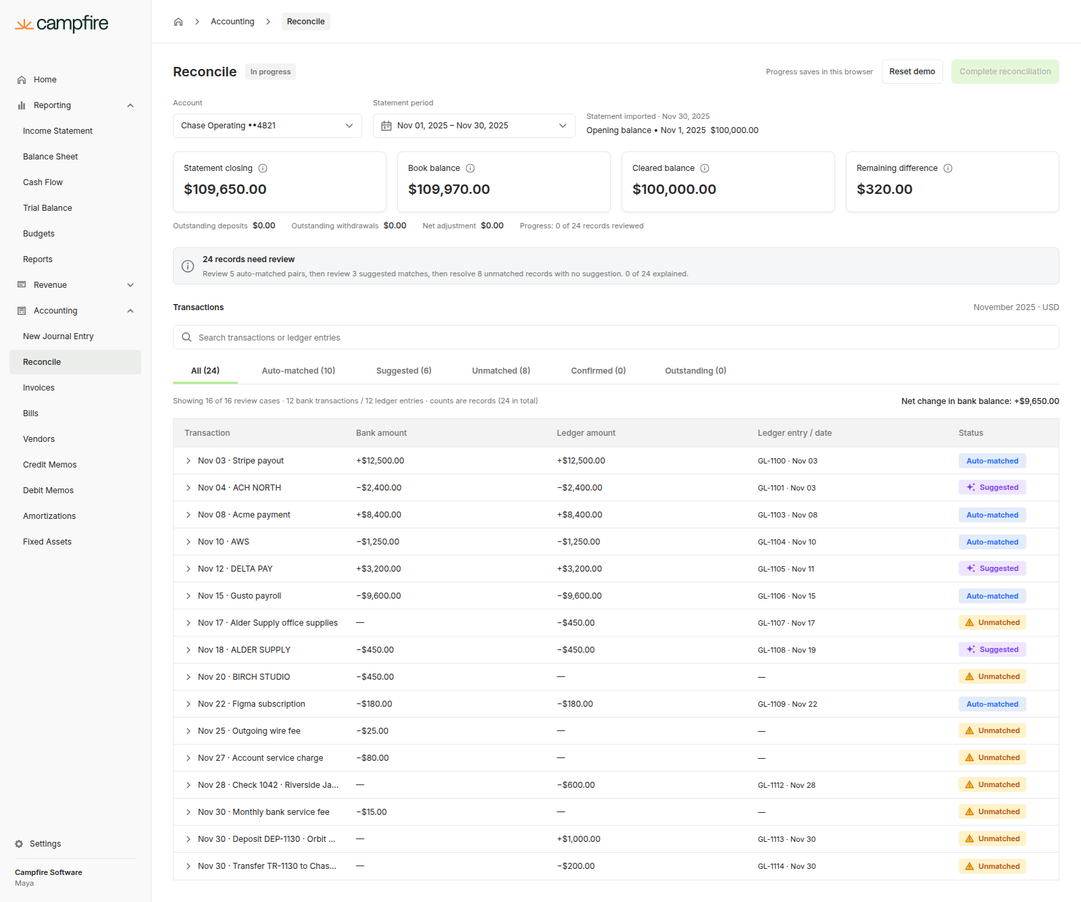
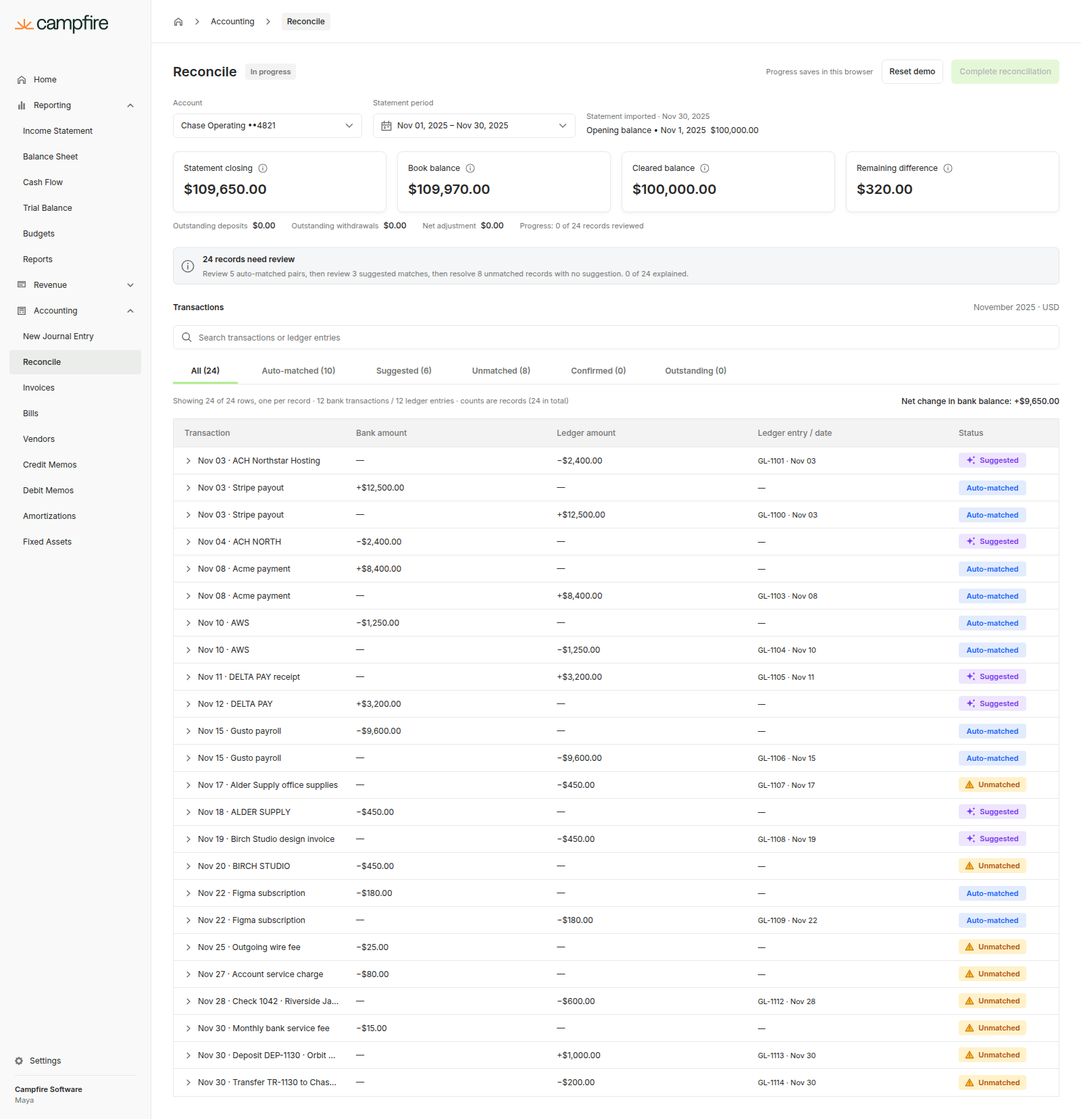
Give each bank transaction and ledger entry its own row
Suggested, auto-matched and confirmed pairs now take two rows, one per
record, that share the pair's status and open the same match details.
Created entries get their own ledger row. Counts stay per record and
balances still come from the records, so nothing is counted twice.

Claude-Session: https://claude.ai/code/session_01SjmuwsjrTUXEVeGEdoK4rk

diff --git a/prototype/src/App.test.tsx b/prototype/src/App.test.tsx
@@ -5,7 +5,8 @@ import { App } from './App'
 import { STORAGE_KEY } from './domain/persistence'
 
 const metric = (label: string) => screen.getByText(label).closest('div[class*=card], section, article')?.textContent ?? ''
-const row = (text: RegExp) => screen.getByRole('button', { name: text })
+// A pair has a bank row and a ledger row; when both match, the bank row (listed first) is meant.
+const row = (text: RegExp) => screen.getAllByRole('button', { name: text })[0]
 // The open row's detail cell (one is open at a time).
 const detail = () => {
   const cell = document.querySelector<HTMLElement>('td[id^="case-"]')
@@ -18,7 +19,7 @@ beforeEach(() => {
 })
 
 describe('Reconciliation prototype', () => {
-  it('starts with 24 records in 16 cases, the auto-matched pairs in the main table', async () => {
+  it('starts with 24 records in 24 rows, the auto-matched pairs in the main table', async () => {
     render(<App />)
     expect(screen.getByRole('heading', { name: 'Transactions' })).toBeInTheDocument()
     expect(screen.getByRole('tab', { name: 'All (24)' })).toBeInTheDocument()
@@ -26,9 +27,9 @@ describe('Reconciliation prototype', () => {
     expect(screen.getByRole('tab', { name: 'Suggested (6)' })).toBeInTheDocument()
     expect(screen.getByRole('tab', { name: 'Unmatched (8)' })).toBeInTheDocument()
     expect(screen.queryByRole('button', { name: /Already matched/ })).not.toBeInTheDocument()
-    expect(screen.getByText(/Showing 16 of 16 review cases · 12 bank transactions \/ 12 ledger entries/)).toBeInTheDocument()
+    expect(screen.getByText(/Showing 24 of 24 rows, one per record · 12 bank transactions \/ 12 ledger entries/)).toBeInTheDocument()
     await userEvent.setup().click(screen.getByRole('tab', { name: 'Auto-matched (10)' }))
-    expect(screen.getByText('5 auto-matched pairs · 10 records awaiting review')).toBeInTheDocument()
+    expect(screen.getByText('5 auto-matched pairs · 10 records awaiting review, one row each')).toBeInTheDocument()
     expect(within(row(/Nov 03 · Stripe payout/).closest('tr')!).getByText('Auto-matched')).toBeInTheDocument()
     expect(metric('Remaining difference')).toContain('$320.00')
     expect(metric('Cleared balance')).toContain('$100,000.00')
@@ -58,6 +59,35 @@ describe('Reconciliation prototype', () => {
     await user.click(screen.getByRole('tab', { name: 'Unmatched (8)' }))
     expect(pills()).toHaveLength(8)
     expect(screen.queryByRole('button', { name: /Nov 18 · ALDER SUPPLY/ })).not.toBeInTheDocument()
+  })
+
+  it('gives each bank transaction and ledger entry its own row and keeps pair statuses in sync', async () => {
+    const user = userEvent.setup()
+    render(<App />)
+    const bankRow = screen.getByRole('button', { name: 'Bank transaction, Nov 03 · Stripe payout' })
+    const ledgerRow = screen.getByRole('button', { name: 'Ledger entry, Nov 03 · Stripe payout' })
+    const cells = (b: HTMLElement) => [...b.closest('tr')!.querySelectorAll('td')].map((td) => td.textContent!.replace('—None', '—'))
+    expect(cells(bankRow).slice(0, 3)).toEqual(['+$12,500.00', '—', '—'])
+    expect(cells(ledgerRow).slice(0, 3)).toEqual(['—', '+$12,500.00', 'GL-1100 · Nov 03'])
+    const status = (b: HTMLElement) => b.closest('tr')!.querySelector('[data-status]')!.getAttribute('data-status')
+    expect([status(bankRow), status(ledgerRow)]).toEqual(['auto-matched', 'auto-matched'])
+    // Expanding the ledger row shows the match and leaves the bank row in place.
+    await user.click(ledgerRow)
+    expect(within(detail()).getByText('The amount, date, and description match. Review the details below, then confirm.')).toBeInTheDocument()
+    expect(bankRow).toBeInTheDocument()
+    await user.click(within(detail()).getByRole('button', { name: 'Confirm match' }))
+    expect([status(bankRow), status(ledgerRow)]).toEqual(['confirmed', 'confirmed'])
+    expect(screen.getByRole('tab', { name: 'Confirmed (2)' })).toBeInTheDocument()
+    // The bank amount clears once, not once per row.
+    expect(metric('Cleared balance')).toContain('$112,500.00')
+    await user.click(screen.getByRole('tab', { name: 'Confirmed (2)' }))
+    expect(screen.getAllByRole('button', { name: /Stripe payout/ })).toHaveLength(2)
+    await user.click(screen.getByRole('button', { name: 'Bank transaction, Nov 03 · Stripe payout' }))
+    await user.click(within(detail()).getByRole('button', { name: 'Undo' }))
+    expect(screen.getByRole('tab', { name: 'Confirmed (0)' })).toBeInTheDocument()
+    expect(metric('Cleared balance')).toContain('$100,000.00')
+    await user.click(screen.getByRole('tab', { name: 'Auto-matched (10)' }))
+    expect([status(screen.getByRole('button', { name: /Bank transaction, Nov 03 · Stripe/ })), status(screen.getByRole('button', { name: /Ledger entry, Nov 03 · Stripe/ }))]).toEqual(['auto-matched', 'auto-matched'])
   })
 
   it('confirms a suggestion from the keyboard and offers Undo in the expanded row', async () => {
@@ -192,7 +222,7 @@ describe('Reconciliation prototype', () => {
     const user = userEvent.setup()
     render(<App />)
     const button = row(/Nov 04 · ACH NORTH/)
-    await user.click(within(button.closest('tr')!).getByText('GL-1101 · Nov 03'))
+    await user.click(within(button.closest('tr')!).getByText(/2,400\.00/, { selector: 'td' }))
     expect(button).toHaveAttribute('aria-expanded', 'true')
     // The status pill shows its tooltip instead of toggling the row.
     await user.click(within(button.closest('tr')!).getByText('Suggested'))

diff --git a/prototype/src/domain/selectors.ts b/prototype/src/domain/selectors.ts
@@ -101,53 +101,63 @@ export function statusCounts(state: ReconState): StatusCounts {
 export type CaseStatus = RecordStatus
 
 export interface ReviewCase {
-  /** Stable key: the bank record id when the case has one, otherwise the ledger record id. */
+  /** Stable key: the id of the record this row shows. */
   key: string
   status: CaseStatus
+  /** Which record the row shows. Paired records get one row each, carrying the same pair details. */
+  side: 'bank' | 'ledger'
+  record: FinancialRecord
   bank?: BankRecord
   ledger?: LedgerEntry
   suggestion?: Suggestion
   match?: Match
   outstanding?: OutstandingDoc
-  /** Original exception records in this case (a generated entry is linked but not counted). */
+  /** Original exception records the row's action covers (both records of a pair; a generated entry is linked but not counted). */
   recordIds: string[]
   date: string
 }
 
-/** Groups the 24 records into review cases. Each record appears in exactly one case. */
+/**
+ * One row per record (Yirang, 2026-10-05): every bank transaction and ledger entry has its own row, including the
+ * entries created from a bank line. A suggested, auto-matched or confirmed pair gives two rows with the same status and
+ * pair details, so expanding either one shows the match. Rows sort by their own record's date.
+ */
 export function reviewCases(state: ReconState): ReviewCase[] {
   const cases: ReviewCase[] = []
   const used = new Set<string>()
+  const pair = (base: Omit<ReviewCase, 'key' | 'side' | 'record' | 'date'> & { bank: BankRecord; ledger: LedgerEntry }) => {
+    used.add(base.bank.id)
+    used.add(base.ledger.id)
+    cases.push({ ...base, key: base.bank.id, side: 'bank', record: base.bank, date: base.bank.date })
+    cases.push({ ...base, key: base.ledger.id, side: 'ledger', record: base.ledger, date: base.ledger.date })
+  }
 
   for (const match of state.matches) {
     const bank = bankRecord(match.bankId)!
     const ledger = ledgerRecord(state, match.ledgerId)!
-    const recordIds = [bank.id, ...(ledger.generatedFrom ? [] : [ledger.id])]
-    recordIds.forEach((id) => used.add(id))
-    cases.push({ key: bank.id, status: 'confirmed', bank, ledger, match, recordIds, date: bank.date })
+    pair({ status: 'confirmed', bank, ledger, match, recordIds: [bank.id, ...(ledger.generatedFrom ? [] : [ledger.id])] })
   }
   for (const suggestion of activeSuggestions(state)) {
     const bank = bankRecord(suggestion.bankId)!
     const ledger = ledgerRecord(state, suggestion.ledgerId)!
-    used.add(bank.id)
-    used.add(ledger.id)
-    const status = suggestion.kind === 'auto' ? 'auto-matched' : 'suggested'
-    cases.push({ key: bank.id, status, bank, ledger, suggestion, recordIds: [bank.id, ledger.id], date: bank.date })
+    pair({ status: suggestion.kind === 'auto' ? 'auto-matched' : 'suggested', bank, ledger, suggestion, recordIds: [bank.id, ledger.id] })
   }
   for (const doc of state.outstanding) {
     const ledger = ledgerRecord(state, doc.ledgerId)!
     used.add(ledger.id)
-    cases.push({ key: ledger.id, status: 'outstanding', ledger, outstanding: doc, recordIds: [ledger.id], date: ledger.date })
+    cases.push({ key: ledger.id, status: 'outstanding', side: 'ledger', record: ledger, ledger, outstanding: doc, recordIds: [ledger.id], date: ledger.date })
   }
   for (const bank of BANK_EXCEPTIONS) {
     if (used.has(bank.id)) continue
-    cases.push({ key: bank.id, status: 'unmatched', bank, recordIds: [bank.id], date: bank.date })
+    cases.push({ key: bank.id, status: 'unmatched', side: 'bank', record: bank, bank, recordIds: [bank.id], date: bank.date })
   }
   for (const ledger of LEDGER_EXCEPTIONS) {
     if (used.has(ledger.id)) continue
-    cases.push({ key: ledger.id, status: 'unmatched', ledger, recordIds: [ledger.id], date: ledger.date })
+    cases.push({ key: ledger.id, status: 'unmatched', side: 'ledger', record: ledger, ledger, recordIds: [ledger.id], date: ledger.date })
   }
-  return cases.sort((a, b) => a.date.localeCompare(b.date) || a.key.localeCompare(b.key))
+  // Same date: the two rows of a pair sit together, bank row first.
+  const group = (c: ReviewCase) => c.bank?.id ?? c.key
+  return cases.sort((a, b) => a.date.localeCompare(b.date) || group(a).localeCompare(group(b)) || a.side.localeCompare(b.side))
 }
 
 export interface Balances {

diff --git a/src/showcase/flags.ts b/src/showcase/flags.ts
@@ -22,6 +22,7 @@ export const CONFLICTS = [
   'Ledger cards without "Match status" (Yirang, 2026-10-04). The suggested, auto-matched and matched ledger cards no longer repeat the status already shown by the row pill and the notice; the slot shows the entry\'s counterparty instead, a field the ledger data already has and the ledger-only card already shows. Created entries show nothing extra, since their counterparty is their category.',
   'Cleared balance with auto-matched pairs. Only confirmed matches clear, so an unconfirmed auto-matched pair no longer counts as cleared: the cleared balance starts at the $100,000.00 opening balance instead of the PRD\'s $109,870.00 and rises as pairs are confirmed. Statement closing ($109,650.00), book balance ($109,970.00) and the $320.00 difference are unchanged, and the finish is the same ($109,650.00 cleared, $0.00 difference) with 21 Confirmed and 3 Outstanding. A save completed before this change is reopened on load, with every decision kept and the reopening recorded in history.',
   'Suggested-match ledger memos. GL-1101 reads "ACH Northstar Hosting" and GL-1105 "DELTA PAY receipt" instead of the PRD\'s "Northstar hosting" and "Delta receipt", so the two correct suggestions differ from their bank lines only by the shortened payee or one word, plus the 1-day date gap (Yirang\'s request, 2026-10-04). Amounts, dates, references and the deliberately wrong Alder/Birch suggestion are unchanged.',
+  'One row per record (Yirang, 2026-10-05). The Figma register (49:617, 28:8442) puts a matched or suggested pair on one row with both amounts and the ledger entry. The prototype gives every bank transaction and ledger entry its own row: a bank row fills only Bank amount, a ledger row fills only Ledger amount and Ledger entry / date. The two rows of a pair share the pair\'s status, change together on confirm, dismiss and Undo, and expanding either one shows the same match details; on the same date they sit together, bank row first. Entries created from a bank line get their own ledger row (tagged Created) but are not counted, so the Confirmed tab can show more rows than its record count. Each row button\'s accessible name starts with "Bank transaction" or "Ledger entry", since a bank line and its entry can share a date and description. Balances come from the records, not the rows, so nothing is counted twice.',
   'Reconcile register columns. 49:617 has five columns; 28:8442 adds an Action column with an Undo link. At Yirang\'s request (2026-10-05) the prototype follows 49:617: no Action column, and Undo sits at the right of the expanded row\'s banner ("Match confirmed", "Created … and matched it", "Documented as outstanding").',
   'Reconcile control heights. The expense form draws its dropdown and inputs at 34 px (38:7885, 38:7939, 38:8005); the controls page draws 36 px dropdowns and 38 px fields. Both are built (size="compact" on Select and TextField).',
   '"Paid from" (PRD) vs "Payment account" (Figma 38:7927) on the expense form. The PRD label is used.',

diff --git a/prototype/src/ui/ReconcilePage.tsx b/prototype/src/ui/ReconcilePage.tsx
@@ -28,13 +28,12 @@ const DEFINITIONS = {
 function caseMatchesQuery(c: ReviewCase, query: string) {
   const q = query.trim().toLowerCase()
   if (!q) return true
-  const records = [c.bank, c.ledger].filter(Boolean)
-  return records.some((r) =>
-    [r!.description, recordCounterparty(r!), r!.reference ?? '', r!.id, r!.kind === 'ledger' ? r!.entryId : '', money(r!.amount)]
-      .join(' ')
-      .toLowerCase()
-      .includes(q),
-  )
+  // A row matches on its own record only, since it shows only that record.
+  const r = c.record
+  return [r.description, recordCounterparty(r), r.reference ?? '', r.id, r.kind === 'ledger' ? r.entryId : '', money(r.amount)]
+    .join(' ')
+    .toLowerCase()
+    .includes(q)
 }
 
 export function ReconcilePage({ recon, announce }: { recon: Recon; announce: (message: string) => void }) {
@@ -114,8 +113,8 @@ export function ReconcilePage({ recon, announce }: { recon: Recon; announce: (me
   const nextStep = () => {
     if (counts.unresolved === 0 && totals.difference === 0)
       return { title: 'Ready to complete', detail: `All ${counts.all} records are explained and the remaining difference is $0.00.` }
-    const autoPairs = cases.filter((c) => c.status === 'auto-matched').length
-    const suggestedPairs = cases.filter((c) => c.status === 'suggested').length
+    const autoPairs = cases.filter((c) => c.status === 'auto-matched' && c.side === 'bank').length
+    const suggestedPairs = cases.filter((c) => c.status === 'suggested' && c.side === 'bank').length
     const noSuggestion = counts.unmatched
     const parts = [
       autoPairs ? `review ${autoPairs} auto-matched ${autoPairs === 1 ? 'pair' : 'pairs'}` : '',
@@ -295,8 +294,8 @@ export function ReconcilePage({ recon, announce }: { recon: Recon; announce: (me
           <div className={styles.registerFooter}>
             <p className="cf-text-caption cf-text-secondary">
               {tab === 'auto-matched'
-                ? `${visible.length} auto-matched ${visible.length === 1 ? 'pair' : 'pairs'} · ${counts.autoMatched} ${counts.autoMatched === 1 ? 'record' : 'records'} awaiting review`
-                : `Showing ${visible.length} of ${cases.length} review cases · ${BANK_EXCEPTIONS.length} bank transactions / ${LEDGER_EXCEPTIONS.length} ledger entries · counts are records (${counts.all} in total)`}
+                ? `${counts.autoMatched / 2} auto-matched ${counts.autoMatched === 2 ? 'pair' : 'pairs'} · ${counts.autoMatched} ${counts.autoMatched === 1 ? 'record' : 'records'} awaiting review, one row each`
+                : `Showing ${visible.length} of ${cases.length} rows, one per record · ${BANK_EXCEPTIONS.length} bank transactions / ${LEDGER_EXCEPTIONS.length} ledger entries · counts are records (${counts.all} in total)`}
               {state.generated.length > 0 && ` · ${state.generated.length} created ${state.generated.length === 1 ? 'entry' : 'entries'}`}
             </p>
             <p className={styles.movement}>

diff --git a/prototype/src/ui/Register.tsx b/prototype/src/ui/Register.tsx
@@ -30,7 +30,8 @@ export interface RegisterProps {
 
 /**
  * Reconciliation register (49:687): 42 px header on surface/subtle, 40 px rows, 16 px insets, 24 px column gaps,
- * a 230 px transaction column and equal amount, entry and status columns. Each row is one review case; the
+ * a 230 px transaction column and equal amount, entry and status columns. Each row is one bank transaction or ledger
+ * entry (Yirang, 2026-10-05), so a pair takes two rows with the same status; the
  * expanded detail opens inside the table (49:952). The Action column of 28:8442 is removed at Yirang's request
  * (2026-10-05): Undo sits at the right of the expanded row's banner instead.
  */
@@ -93,7 +94,7 @@ export function Register({ recon, cases, expanded, onToggle, onCollapse, announc
         )}
         {cases.map((c) => {
           const open = expanded === c.key
-          const primary = c.bank ?? c.ledger!
+          const primary = c.record
           const detailId = `case-${c.key}`
           return (
             <Fragment key={c.key}>
@@ -115,18 +116,19 @@ export function Register({ recon, cases, expanded, onToggle, onCollapse, announc
                   >
                     <Icon name={open ? 'chevron-down' : 'chevron-right'} size={12} />
                     <span className={styles.label}>
+                      <span className="cf-visually-hidden">{c.side === 'bank' ? 'Bank transaction,' : 'Ledger entry,'}</span>{' '}
                       {shortDate(primary.date)} · {primary.description}
                     </span>
                   </button>
                 </th>
                 <td className={styles.amountCell} data-label="Bank amount">
-                  {c.bank ? signed(c.bank.amount) : <Dash />}
+                  {c.side === 'bank' ? signed(c.record.amount) : <Dash />}
                 </td>
                 <td className={styles.amountCell} data-label="Ledger amount">
-                  {c.ledger ? signed(c.ledger.amount) : <Dash />}
+                  {c.side === 'ledger' ? signed(c.record.amount) : <Dash />}
                 </td>
                 <td className={styles.entry} data-label="Ledger entry / date">
-                  {c.ledger ? (
+                  {c.side === 'ledger' && c.ledger ? (
                     <>
                       {c.ledger.entryId} · {shortDate(c.ledger.date)}
                       {c.ledger.generatedFrom && <span className={styles.created}>Created</span>}

diff --git a/prototype/src/domain/engine.test.ts b/prototype/src/domain/engine.test.ts
@@ -58,15 +58,21 @@ const FINISH: Action[] = [
 describe('initial fixture', () => {
   const state = initialState()
 
-  it('counts 24 records in 16 review cases, the 5 auto-matched pairs included once each', () => {
+  it('counts 24 records in 24 rows, one per record, with pairs sharing a status', () => {
     expect(statusCounts(state)).toMatchObject({ all: 24, autoMatched: 10, suggested: 6, unmatched: 8, confirmed: 0, outstanding: 0, unresolved: 24, explained: 0 })
     const cases = reviewCases(state)
-    expect(cases).toHaveLength(16)
-    expect(cases.filter((c) => c.status === 'auto-matched')).toHaveLength(5)
-    expect(cases.filter((c) => c.recordIds.length === 2)).toHaveLength(8)
-    const ids = cases.flatMap((c) => c.recordIds)
-    expect(ids).toHaveLength(24)
+    expect(cases).toHaveLength(24)
+    expect(cases.filter((c) => c.status === 'auto-matched')).toHaveLength(10)
+    expect(cases.filter((c) => c.recordIds.length === 2)).toHaveLength(16)
+    expect(cases.filter((c) => c.side === 'bank')).toHaveLength(12)
+    const ids = cases.map((c) => c.record.id)
     expect(new Set(ids).size).toBe(24)
+    // Both rows of a pair show the same status and pair.
+    const stripe = cases.filter((c) => c.suggestion?.id === 'A1')
+    expect(stripe.map((c) => [c.side, c.status, c.record.amount])).toEqual([
+      ['bank', 'auto-matched', 1_250_000],
+      ['ledger', 'auto-matched', 1_250_000],
+    ])
   })
 
   it('derives the initial balances from the PRD', () => {
@@ -205,7 +211,7 @@ describe('dismissal and its undo', () => {
     let s = run(initialState(), { type: 'dismiss-suggestion', suggestionId: 'S3' })
     expect(recordStatus(s, 'B03')).toBe('unmatched')
     expect(recordStatus(s, 'L03')).toBe('unmatched')
-    expect(reviewCases(s)).toHaveLength(17)
+    expect(reviewCases(s)).toHaveLength(24)
     const restored = run(s, { type: 'restore-suggestion', suggestionId: 'S3' })
     expect(recordStatus(restored, 'B03')).toBe('suggested')
     s = run(s, { type: 'confirm-match', bankId: 'B04', ledgerId: 'L03', source: 'search' })

diff --git a/docs/design-flags.md b/docs/design-flags.md
@@ -25,6 +25,7 @@ Conflicts in the Figma references, choices Figma does not document, accessibilit
 - Ledger cards without "Match status" (Yirang, 2026-10-04). The suggested, auto-matched and matched ledger cards no longer repeat the status already shown by the row pill and the notice; the slot shows the entry's counterparty instead, a field the ledger data already has and the ledger-only card already shows. Created entries show nothing extra, since their counterparty is their category.
 - Cleared balance with auto-matched pairs. Only confirmed matches clear, so an unconfirmed auto-matched pair no longer counts as cleared: the cleared balance starts at the $100,000.00 opening balance instead of the PRD's $109,870.00 and rises as pairs are confirmed. Statement closing ($109,650.00), book balance ($109,970.00) and the $320.00 difference are unchanged, and the finish is the same ($109,650.00 cleared, $0.00 difference) with 21 Confirmed and 3 Outstanding. A save completed before this change is reopened on load, with every decision kept and the reopening recorded in history.
 - Suggested-match ledger memos. GL-1101 reads "ACH Northstar Hosting" and GL-1105 "DELTA PAY receipt" instead of the PRD's "Northstar hosting" and "Delta receipt", so the two correct suggestions differ from their bank lines only by the shortened payee or one word, plus the 1-day date gap (Yirang's request, 2026-10-04). Amounts, dates, references and the deliberately wrong Alder/Birch suggestion are unchanged.
+- One row per record (Yirang, 2026-10-05). The Figma register (49:617, 28:8442) puts a matched or suggested pair on one row with both amounts and the ledger entry. The prototype gives every bank transaction and ledger entry its own row: a bank row fills only Bank amount, a ledger row fills only Ledger amount and Ledger entry / date. The two rows of a pair share the pair's status, change together on confirm, dismiss and Undo, and expanding either one shows the same match details; on the same date they sit together, bank row first. Entries created from a bank line get their own ledger row (tagged Created) but are not counted, so the Confirmed tab can show more rows than its record count. Each row button's accessible name starts with "Bank transaction" or "Ledger entry", since a bank line and its entry can share a date and description. Balances come from the records, not the rows, so nothing is counted twice.
 - Reconcile register columns. 49:617 has five columns; 28:8442 adds an Action column with an Undo link. At Yirang's request (2026-10-05) the prototype follows 49:617: no Action column, and Undo sits at the right of the expanded row's banner ("Match confirmed", "Created … and matched it", "Documented as outstanding").
 - Reconcile control heights. The expense form draws its dropdown and inputs at 34 px (38:7885, 38:7939, 38:8005); the controls page draws 36 px dropdowns and 38 px fields. Both are built (size="compact" on Select and TextField).
 - "Paid from" (PRD) vs "Payment account" (Figma 38:7927) on the expense form. The PRD label is used.

diff --git a/prototype/README.md b/prototype/README.md
@@ -30,6 +30,7 @@ Start from a reset. The page opens with a $320.00 difference and 24 records in 1
 
 Other paths worth trying:
 
+- **One row per record.** Each bank transaction and ledger entry has its own row: *Nov 03 · Stripe payout* appears twice, once with the bank amount and once with the ledger amount and GL-1100. Both rows show the pair's status and change together, and expanding either shows the match. Created entries get their own row, tagged Created.
 - **Status tooltips.** Hover over a status pill, or Tab to it, to read what the status means. Escape hides the tooltip; clicking the pill doesn't expand the row.
 - **Undo.** Expand a confirmed or outstanding row and use **Undo** at the right of its banner. It reverses that row's own action, even after later actions elsewhere. Undoing a created expense removes the entry and its match together.
 - **Blocked completion.** Click **Complete reconciliation** early: the reasons are listed (unresolved records, a non-zero difference, or both).
@@ -81,7 +82,7 @@ The UI imports every component, icon and token from `../../src` (the shared desi
 
 The PRD wins where it conflicts with Figma. The main departures, all listed in `docs/design-flags.md` and `docs/figma-and-decisions.md`:
 
-- The Figma frames' eight-row November and "John Glasgow" are replaced by the PRD dataset and Maya. Tabs count records (24), not rows. The PRD's five background pairs are Auto-matched items in the main table that still need review (Yirang's design), so the cleared balance starts at $100,000.00. Each tab lists and counts only its own status, as the PRD splits them: Suggested starts at 6 and Unmatched at 8. Suggested and auto-matched pairs appear in their own tabs and in All, not in Unmatched (Yirang, 2026-10-05).
+- The Figma frames' eight-row November and "John Glasgow" are replaced by the PRD dataset and Maya. Tabs count records (24); the table shows one row per record, plus a row for each created entry. The PRD's five background pairs are Auto-matched items in the main table that still need review (Yirang's design), so the cleared balance starts at $100,000.00. Each tab lists and counts only its own status, as the PRD splits them: Suggested starts at 6 and Unmatched at 8. Suggested and auto-matched pairs appear in their own tabs and in All, not in Unmatched (Yirang, 2026-10-05).
 - The GL-1101 and GL-1105 memos read "ACH Northstar Hosting" and "DELTA PAY receipt" (PRD: "Northstar hosting", "Delta receipt") so the two correct suggestions look like close matches, at Yirang's request.
 - The register heading is "Transactions", following Figma and Yirang's design.
 - Expanded rows have no arrow between the bank and ledger cards (Figma draws a 32 px chevron column), at Yirang's request. Side by side, the two cards line up row by row so the amount, date, description and reference are at the same height and column.

diff --git a/docs/figma-and-decisions.md b/docs/figma-and-decisions.md
@@ -43,6 +43,7 @@ Component frames carry their own node ids in code comments, in `src/assets/manif
 The PRD sets behavior, data and calculations; Figma sets the visual design. Where they conflict the PRD wins, and the difference is listed here and in the flags.
 
 - **Data.** The Figma frames' eight-row November, their balances and "John Glasgow" are replaced by the PRD dataset and Maya. The PRD's 5 background pairs are Auto-matched items in the main table that need review (Yirang's design, 2026-10-04): 24 records in 16 cases.
+- **One row per record.** Every bank transaction and ledger entry has its own row, so a pair is two rows that share a status and open the same match details (Yirang, 2026-10-05; Figma puts a pair on one row). Created entries get a row tagged Created but don't count. Balances are computed from the records, so nothing is counted twice.
 - **Counts and heading.** The register is titled "Transactions". Tabs count the 24 original records: All, Auto-matched (10), Suggested (6), Unmatched (8), Confirmed, Outstanding. Each tab lists and counts only its own status, so Unmatched leaves out suggested and auto-matched pairs (Yirang, 2026-10-05, as the PRD's 6 / 8 split); both still block completion until reviewed. The status dropdown is gone (not in the design).
 - **Auto-matched.** Blue pill (link ink on #E3ECFC from the design; no link glyph, which Figma's icon set lacks). The expanded row reuses the suggested-match layout and actions. Unconfirmed pairs don't clear, so cleared starts at $100,000.00 (PRD: $109,870.00); the finish is unchanged.
 - **Card comparison.** No arrow between the bank and ledger cards in expanded rows (Figma 51:1049 has a 32 px chevron column), at Yirang's request. Side by side, the cards share row tracks so the amount, date, description and reference line up; the bank card lists Reference before Type to match the ledger card. Row expand and collapse chevrons are unchanged.
